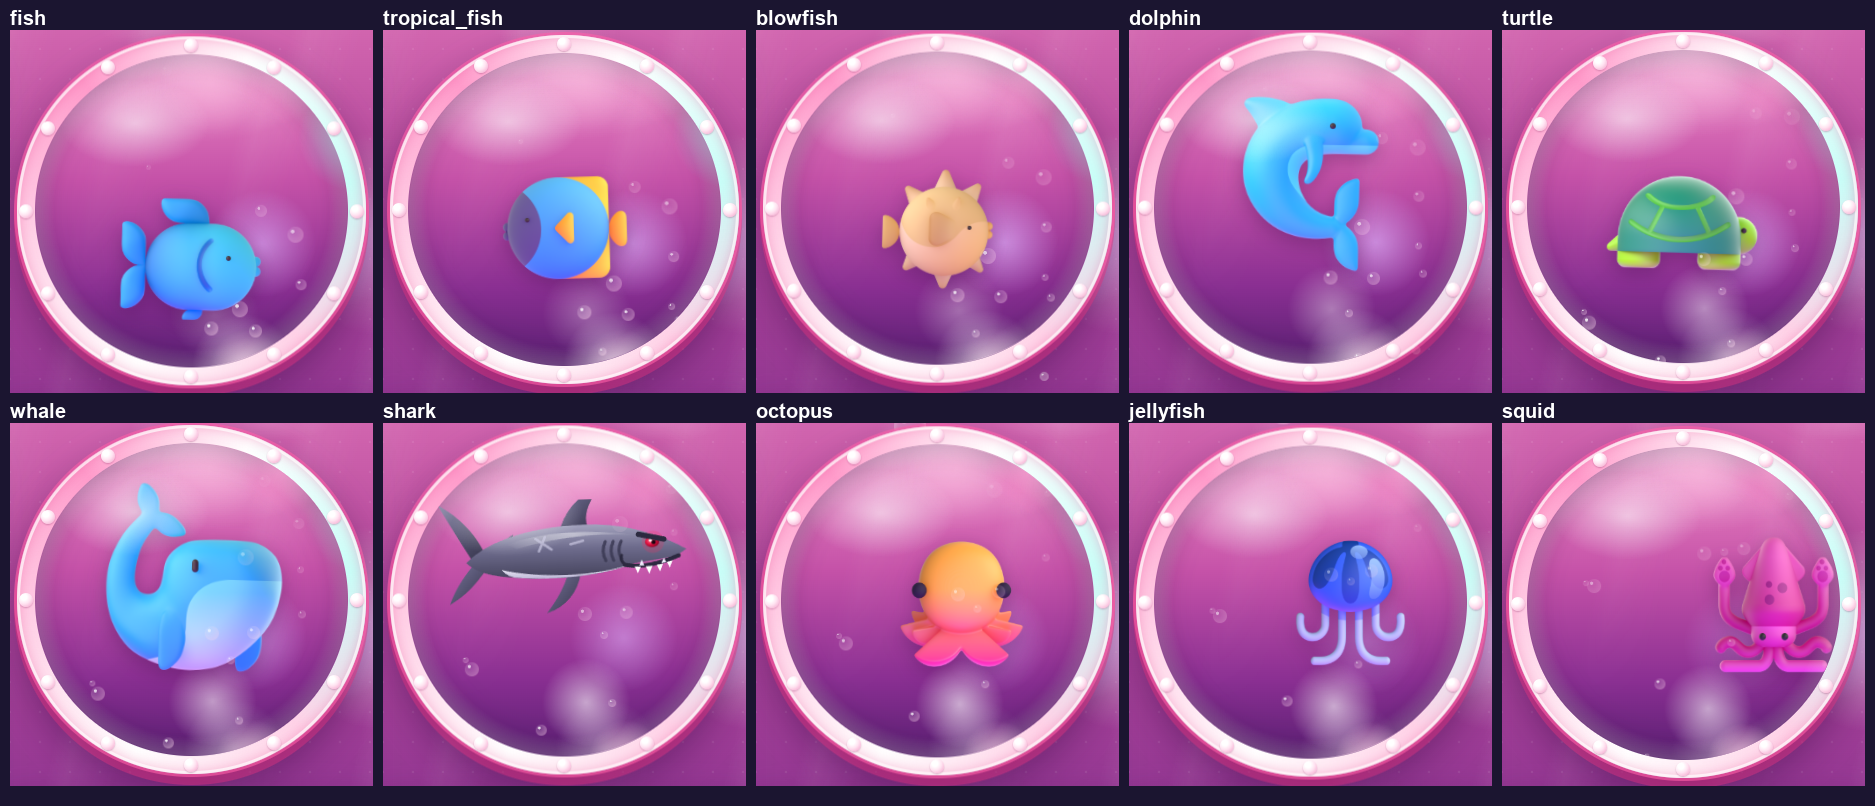
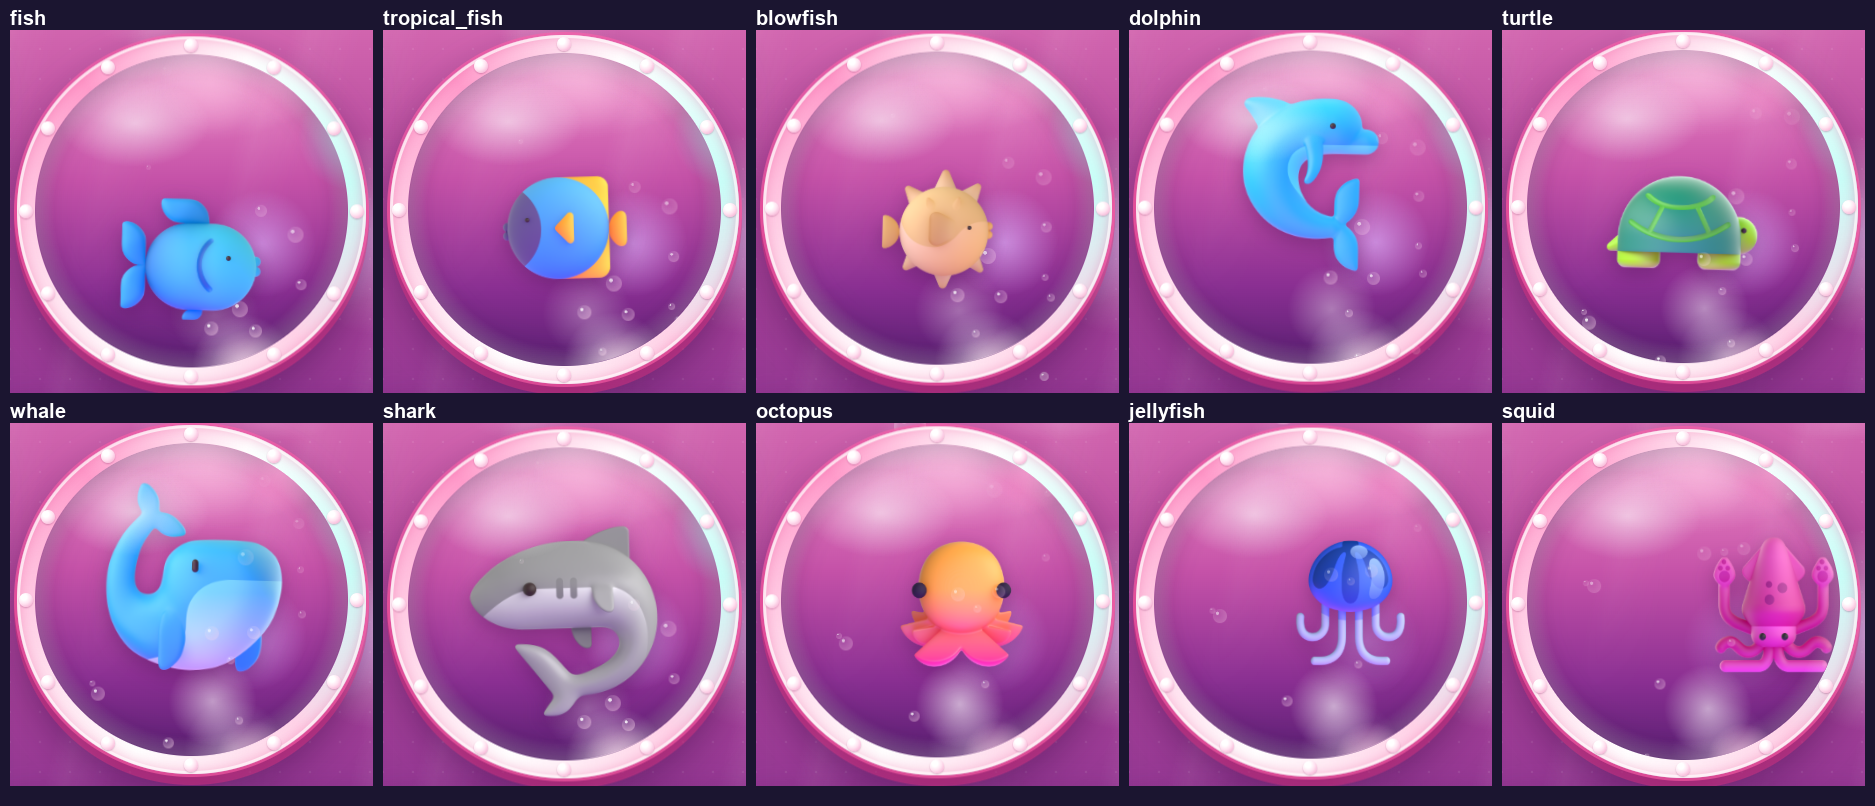
Overlay: vuelve el tiburón de Fluent Emoji

Changed region(s): [[0.2165, 0.5273, 0.4021, 0.9926]]

diff --git a/overlay/overlay.html b/overlay/overlay.html
@@ -488,43 +488,6 @@ html, body {
     </g>
     <circle r="8" fill="currentColor"/>
   </symbol>
-  <!-- tiburón con volumen y cara de malo (dibujado a mano, mira a la derecha) -->
-  <linearGradient id="sk-body" x1="0" y1="0" x2="0" y2="1">
-    <stop offset="0" stop-color="#a3a2bd"/><stop offset=".45" stop-color="#6d6b8c"/><stop offset="1" stop-color="#45435c"/>
-  </linearGradient>
-  <linearGradient id="sk-fin" x1="0" y1="0" x2="1" y2="1">
-    <stop offset="0" stop-color="#77759a"/><stop offset="1" stop-color="#36344b"/>
-  </linearGradient>
-  <linearGradient id="sk-belly" x1="0" y1="0" x2="0" y2="1">
-    <stop offset="0" stop-color="#f6f4fd"/><stop offset="1" stop-color="#bdb8d6"/>
-  </linearGradient>
-  <linearGradient id="sk-shine" x1="0" y1="0" x2="1" y2="0">
-    <stop offset="0" stop-color="#fff" stop-opacity="0"/><stop offset=".5" stop-color="#fff" stop-opacity=".45"/><stop offset="1" stop-color="#fff" stop-opacity="0"/>
-  </linearGradient>
-  <radialGradient id="sk-eye" cx=".4" cy=".4" r=".7">
-    <stop offset="0" stop-color="#ff6b8a"/><stop offset=".5" stop-color="#e0103f"/><stop offset="1" stop-color="#7a0020"/>
-  </radialGradient>
-  <symbol id="c-shark" viewBox="0 0 160 72">
-    <path d="M22 37 C14 24 7 12 1 1 C15 9 25 21 30 33Z" fill="url(#sk-fin)"/>
-    <path d="M22 40 C15 48 10 56 7 64 C18 58 25 50 30 43Z" fill="url(#sk-fin)"/>
-    <path d="M90 46 C88 59 79 68 68 71 C76 61 80 53 82 46Z" fill="url(#sk-fin)"/>
-    <path d="M78 17 C84 2 93 -4 102 -5 C95 3 93 11 95 17Z" fill="url(#sk-fin)"/>
-    <path d="M40 30 C42 25 45 22 48 21 C47 25 47 28 48 30Z" fill="url(#sk-fin)"/>
-    <path d="M18 38 C32 24 62 15 100 16 C124 17 143 25 157 33 L151 37 C142 39 132 40 124 41 C106 48 74 51 48 48 C34 47 24 44 18 38Z" fill="url(#sk-body)"/>
-    <path d="M40 43 C64 49 100 49 124 41 C106 48 74 51 48 48 C44 47 42 45 40 43Z" fill="url(#sk-belly)"/>
-    <path d="M44 27 C64 20 96 18 128 24 C110 21 80 22 50 30Z" fill="url(#sk-shine)"/>
-    <path d="M106 27 C104 31 104 35 106 39 M111 27 C109 31 109 35 111 39 M116 27 C114 31 114 35 116 38" stroke="#3a3852" stroke-width="2" fill="none" stroke-linecap="round" opacity=".85"/>
-    <path d="M62 24 L72 31 M68 23 L64 32 M84 28 L92 26" stroke="#c4c1dc" stroke-width="1.6" stroke-linecap="round" opacity=".75"/>
-    <path d="M118 42 C128 44 140 42 152 37" stroke="#2c2a40" stroke-width="2.6" fill="none" stroke-linecap="round"/>
-    <path d="M118 42 C116 40 115 38 116 36" stroke="#2c2a40" stroke-width="2" fill="none" stroke-linecap="round"/>
-    <path d="M124 43.2 L126 47.5 L128 43.4Z M131 43.3 L133.2 48 L135.3 43.1Z M138 42.6 L140 46.8 L142 42Z M144.5 41 L146.2 44.6 L148 40Z" fill="#fff"/>
-    <path d="M127 42.6 L128.6 39 L130.2 42.8Z M141 41.6 L142.6 38.2 L144 41Z" fill="#f2efff"/>
-    <circle cx="136" cy="28" r="7" fill="#ff2a5a" opacity=".22"/>
-    <ellipse cx="135.5" cy="28" rx="4.4" ry="3.3" fill="url(#sk-eye)"/>
-    <circle cx="136.4" cy="28.2" r="1.3" fill="#1a0610"/>
-    <circle cx="134.4" cy="26.9" r="1" fill="#fff" opacity=".9"/>
-    <path d="M127 23 L143 26.5" stroke="#2c2a40" stroke-width="3.4" stroke-linecap="round"/>
-  </symbol>
   <symbol id="bubble-ico" viewBox="0 0 16 16">
     <circle cx="6" cy="9" r="5" fill="none" stroke="currentColor" stroke-width="2"/>
     <circle cx="12.5" cy="4" r="2.5" fill="none" stroke="currentColor" stroke-width="1.6"/>
@@ -645,7 +608,7 @@ html, body {
     ring.appendChild(rv);
   }
   // ----- animales que pasan por la ventana, al azar (como mucho 2 a la vez) -----
-  // Dibujos: Fluent Emoji de Microsoft (licencia MIT, ver animales/LICENCIA.txt); el tiburón está dibujado a mano.
+  // Dibujos: Fluent Emoji de Microsoft (licencia MIT, ver animales/LICENCIA.txt).
   // w: ancho en px · s: segundos que tardan en cruzar · mira: hacia dónde mira el dibujo · up: suben en vez de cruzar
   var CRIATURAS = [
     { img: 'animales/fish.png',          peso: 14, w: [140, 160], s: [9, 12],   mira: 'izq' },
@@ -654,7 +617,7 @@ html, body {
     { img: 'animales/dolphin.png',       peso: 10, w: [185, 205], s: [6, 8],    mira: 'izq', fast: true, arc: 30 },
     { img: 'animales/turtle.png',        peso: 9,  w: [165, 185], s: [13, 16],  mira: 'izq' },
     { img: 'animales/whale.png',         peso: 7,  w: [205, 225], s: [14, 17],  mira: 'izq' },
-    { svg: 'c-shark',                    peso: 10, w: [240, 265], s: [11, 14],  mira: 'der' },
+    { img: 'animales/shark.png',         peso: 10, w: [200, 220], s: [11, 14],  mira: 'izq' },
     { img: 'animales/octopus.png',       peso: 9,  w: [140, 155], s: [12, 15],  up: true, pulse: true },
     { img: 'animales/jellyfish.png',     peso: 9,  w: [135, 150], s: [13, 16],  up: true, pulse: true },
     { img: 'animales/squid.png',         peso: 8,  w: [140, 155], s: [11, 14],  up: true, pulse: true }
@@ -726,7 +689,7 @@ html, body {
     }, espera);
   }
   programar(800);
-  window.soltarCriatura = soltar;   // para probar: soltarCriatura('c-shark') o soltarCriatura('dolphin')
+  window.soltarCriatura = soltar;   // para probar: soltarCriatura('shark')
   html = '';
   for (i = 0; i < 14; i++) {
     html += '<span style="--x:' + (10 + rnd() * 80).toFixed(0) + '%;--s:' + (5 + rnd() * 12 | 0) + 'px;--d:' + (6 + rnd() * 4).toFixed(1) + 's;--t:' + (-rnd() * 10).toFixed(1) + 's;--w:' + ((rnd() - .5) * 30 | 0) + 'px"></span>';
